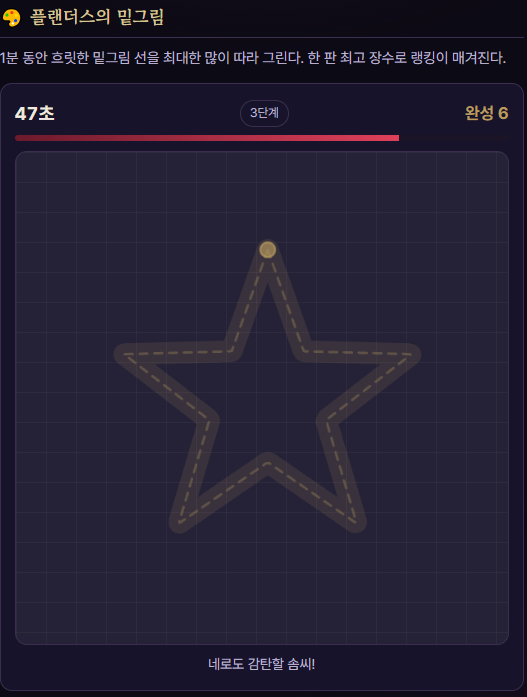
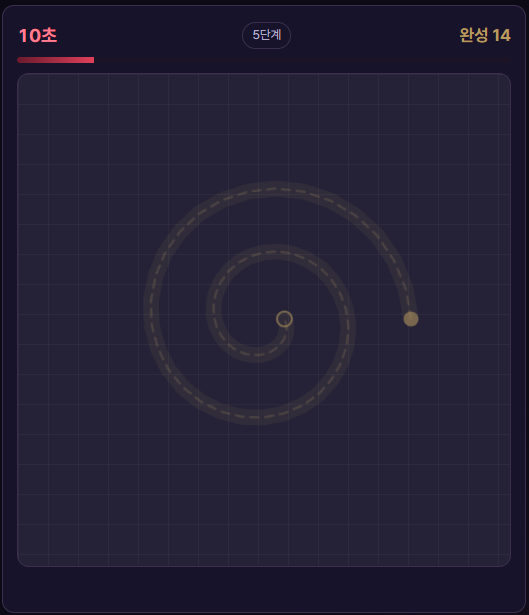
아 맞다 브금 삽입 버전 업

diff --git a/data/act/mini/flanders.js b/data/act/mini/flanders.js
@@ -8,7 +8,8 @@
    top     랭킹에 보여 줄 사람 수
    pass    한 장 완성 기준. cover: 안내선을 덮은 비율 · acc: 그린 선이 안내선 위에 있는 비율
    levels  난이도 단계. at: 몇 번째 장부터(1부터 센 장 번호) · tol: 허용 오차(px, 판 크기 600 기준) · alpha: 안내선 진하기 · pick: 이 단계에서 나올 선
-           예: at 0→1장부터, at 3→3장째부터, at 6·9·10. 단계는 장을 새로 낼 때만 바뀐다(그리던 장을 도중에 바꾸지 않음).
+           예: at 0→1장부터, at 3→3장째부터, at 6·9. 단계는 장을 새로 낼 때만 바뀐다(그리던 장을 도중에 바꾸지 않음).
+           예전 5단계(at:10)는 4단계(at:9) pick 에 합쳤다.
    pick 에 쓰는 이름
      · 그때그때 무작위로 만드는 선: line(직선) bend(꺾인 선) curve(곡선) zig(지그재그) wave(물결)
      · 미리 그려 둔 밑그림: 아래 shapes 의 이름
@@ -25,9 +26,8 @@ const MG_FLANDERS={
  levels:[
   {at:0, tol:30,alpha:.42,pick:["line"]},
   {at:3, tol:26,alpha:.36,pick:["bend","house"]},
-  {at:6, tol:22,alpha:.30,pick:["curve","spire","star"]},
-  {at:9, tol:19,alpha:.24,pick:["zig","heart","moon"]},
-  {at:10,tol:16,alpha:.18,pick:["wave","spiral","heart","star"]}
+  {at:6, tol:22,alpha:.30,pick:["curve","spire","star","tree"]},
+  {at:9, tol:17,alpha:.20,pick:["zig","wave","heart","moon","spiral","star","bird","flower","butterfly","clover","fish","windmill","bow","knot"]}
  ],
  shapes:{
   heart: [[0.5,0.331],[0.505,0.304],[0.536,0.237],[0.608,0.169],[0.712,0.139],[0.825,0.166],[0.912,0.247],[0.944,0.359],[0.912,0.477],[0.825,0.588],[0.712,0.689],[0.608,0.782],[0.536,0.863],[0.505,0.921],[0.5,0.942],[0.495,0.921],[0.464,0.863],[0.392,0.782],[0.288,0.689],[0.175,0.588],[0.088,0.477],[0.056,0.359],[0.088,0.247],[0.175,0.166],[0.288,0.139],[0.392,0.169],[0.464,0.237],[0.495,0.304],[0.5,0.331]],
@@ -35,6 +35,24 @@ const MG_FLANDERS={
   house: [[0.2,0.85],[0.2,0.45],[0.5,0.18],[0.8,0.45],[0.8,0.85],[0.2,0.85]],
   spire: [[0.25,0.9],[0.25,0.55],[0.4,0.45],[0.5,0.12],[0.6,0.45],[0.75,0.55],[0.75,0.9]],
   spiral: [[0.55,0.5],[0.554,0.512],[0.556,0.525],[0.554,0.54],[0.548,0.554],[0.538,0.568],[0.524,0.58],[0.507,0.589],[0.487,0.594],[0.466,0.594],[0.444,0.59],[0.422,0.58],[0.402,0.565],[0.386,0.545],[0.373,0.52],[0.366,0.493],[0.365,0.463],[0.371,0.433],[0.384,0.404],[0.403,0.377],[0.429,0.354],[0.46,0.337],[0.495,0.327],[0.533,0.324],[0.572,0.33],[0.609,0.345],[0.644,0.367],[0.673,0.398],[0.696,0.435],[0.711,0.477],[0.717,0.523],[0.712,0.57],[0.697,0.616],[0.672,0.659],[0.638,0.697],[0.596,0.726],[0.547,0.747],[0.493,0.757],[0.438,0.755],[0.383,0.741],[0.331,0.715],[0.285,0.678],[0.247,0.631],[0.22,0.576],[0.204,0.516],[0.202,0.452],[0.214,0.388],[0.239,0.327],[0.278,0.272],[0.328,0.225],[0.388,0.19],[0.456,0.168],[0.527,0.16],[0.6,0.168],[0.671,0.192],[0.736,0.231],[0.792,0.283],[0.836,0.348],[0.866,0.421],[0.88,0.5]],
-  moon: [[0.5,0.85],[0.439,0.845],[0.38,0.829],[0.325,0.803],[0.275,0.768],[0.232,0.725],[0.197,0.675],[0.171,0.62],[0.155,0.561],[0.15,0.5],[0.155,0.439],[0.171,0.38],[0.197,0.325],[0.232,0.275],[0.275,0.232],[0.325,0.197],[0.38,0.171],[0.439,0.155],[0.5,0.15],[0.434,0.184],[0.376,0.231],[0.328,0.289],[0.292,0.354],[0.27,0.426],[0.263,0.5],[0.27,0.574],[0.292,0.646],[0.328,0.711],[0.376,0.769],[0.434,0.816],[0.5,0.85]]
+  moon: [[0.5,0.85],[0.439,0.845],[0.38,0.829],[0.325,0.803],[0.275,0.768],[0.232,0.725],[0.197,0.675],[0.171,0.62],[0.155,0.561],[0.15,0.5],[0.155,0.439],[0.171,0.38],[0.197,0.325],[0.232,0.275],[0.275,0.232],[0.325,0.197],[0.38,0.171],[0.439,0.155],[0.5,0.15],[0.434,0.184],[0.376,0.231],[0.328,0.289],[0.292,0.354],[0.27,0.426],[0.263,0.5],[0.27,0.574],[0.292,0.646],[0.328,0.711],[0.376,0.769],[0.434,0.816],[0.5,0.85]],
+  /* 나무: 줄기 → 수관 한 획 */
+  tree: [[0.48,0.92],[0.48,0.58],[0.42,0.58],[0.35,0.5],[0.3,0.4],[0.28,0.3],[0.32,0.2],[0.4,0.14],[0.5,0.12],[0.6,0.14],[0.68,0.2],[0.72,0.3],[0.7,0.4],[0.65,0.5],[0.58,0.58],[0.52,0.58],[0.52,0.92]],
+  /* 새: 몸·날개·부리 실루엣 */
+  bird: [[0.18,0.55],[0.28,0.48],[0.38,0.42],[0.48,0.4],[0.55,0.32],[0.62,0.22],[0.68,0.28],[0.58,0.38],[0.7,0.36],[0.82,0.34],[0.9,0.42],[0.82,0.48],[0.7,0.5],[0.58,0.52],[0.62,0.62],[0.55,0.7],[0.48,0.62],[0.42,0.55],[0.32,0.58],[0.22,0.62],[0.18,0.55]],
+  /* 꽃: 꽃잎 다섯 + 중심을 한 획으로 */
+  flower: [[0.5,0.5],[0.5,0.28],[0.56,0.22],[0.62,0.28],[0.56,0.36],[0.5,0.5],[0.68,0.38],[0.78,0.42],[0.74,0.52],[0.64,0.5],[0.5,0.5],[0.62,0.66],[0.58,0.76],[0.48,0.74],[0.48,0.62],[0.5,0.5],[0.38,0.66],[0.28,0.7],[0.26,0.58],[0.36,0.54],[0.5,0.5],[0.32,0.38],[0.22,0.34],[0.26,0.24],[0.38,0.3],[0.5,0.5],[0.5,0.42],[0.54,0.46],[0.5,0.5]],
+  /* 나비: 몸통·날개 */
+  butterfly: [[0.5,0.18],[0.5,0.82],[0.48,0.7],[0.35,0.55],[0.22,0.42],[0.18,0.28],[0.28,0.22],[0.4,0.32],[0.48,0.45],[0.5,0.5],[0.52,0.45],[0.6,0.32],[0.72,0.22],[0.82,0.28],[0.78,0.42],[0.65,0.55],[0.52,0.7],[0.5,0.82],[0.5,0.55],[0.42,0.62],[0.32,0.72],[0.28,0.82],[0.38,0.78],[0.48,0.68],[0.5,0.55],[0.58,0.68],[0.68,0.78],[0.72,0.82],[0.62,0.72],[0.52,0.62],[0.5,0.55]],
+  /* 클로버 잎 세 장 */
+  clover: [[0.5,0.88],[0.5,0.62],[0.42,0.55],[0.32,0.48],[0.28,0.38],[0.34,0.28],[0.44,0.28],[0.5,0.38],[0.5,0.48],[0.5,0.38],[0.56,0.28],[0.66,0.28],[0.72,0.38],[0.68,0.48],[0.58,0.55],[0.5,0.62],[0.42,0.48],[0.32,0.42],[0.28,0.32],[0.34,0.24],[0.44,0.26],[0.5,0.36],[0.56,0.26],[0.66,0.24],[0.72,0.32],[0.68,0.42],[0.58,0.48],[0.5,0.62],[0.5,0.88]],
+  /* 물고기 */
+  fish: [[0.12,0.5],[0.22,0.38],[0.35,0.3],[0.5,0.28],[0.65,0.32],[0.78,0.4],[0.88,0.5],[0.78,0.6],[0.65,0.68],[0.5,0.72],[0.35,0.7],[0.22,0.62],[0.12,0.5],[0.22,0.5],[0.12,0.38],[0.12,0.62],[0.22,0.5],[0.78,0.42],[0.92,0.32],[0.92,0.68],[0.78,0.58]],
+  /* 풍차(플랜더스): 탑 + 날개 십자 */
+  windmill: [[0.42,0.92],[0.42,0.55],[0.38,0.48],[0.5,0.22],[0.62,0.48],[0.58,0.55],[0.58,0.92],[0.42,0.92],[0.5,0.5],[0.22,0.28],[0.28,0.22],[0.5,0.5],[0.78,0.28],[0.72,0.22],[0.5,0.5],[0.22,0.72],[0.28,0.78],[0.5,0.5],[0.78,0.72],[0.72,0.78],[0.5,0.5]],
+  /* 리본 활 */
+  bow: [[0.5,0.5],[0.35,0.35],[0.22,0.28],[0.18,0.4],[0.28,0.52],[0.4,0.48],[0.5,0.5],[0.65,0.35],[0.78,0.28],[0.82,0.4],[0.72,0.52],[0.6,0.48],[0.5,0.5],[0.35,0.65],[0.22,0.72],[0.18,0.6],[0.28,0.48],[0.5,0.5],[0.65,0.65],[0.78,0.72],[0.82,0.6],[0.72,0.48],[0.5,0.5],[0.5,0.58],[0.5,0.78]],
+  /* 매듭·8자(복잡) */
+  knot: [[0.5,0.2],[0.62,0.28],[0.7,0.4],[0.68,0.55],[0.55,0.62],[0.45,0.55],[0.42,0.42],[0.5,0.35],[0.6,0.4],[0.62,0.52],[0.55,0.62],[0.45,0.7],[0.35,0.78],[0.28,0.7],[0.32,0.55],[0.45,0.48],[0.55,0.52],[0.58,0.65],[0.5,0.75],[0.38,0.82],[0.3,0.75],[0.35,0.62],[0.5,0.55],[0.65,0.62],[0.72,0.75],[0.65,0.85],[0.5,0.88],[0.35,0.82],[0.28,0.7],[0.32,0.55],[0.45,0.42],[0.55,0.35],[0.5,0.2]]
  }
 };

diff --git a/js/act/mini/demo.js b/js/act/mini/demo.js
@@ -6,7 +6,7 @@
 
    ── 규칙 ───────────────────────────────────────────────
    · 1분 동안 흐릿한 안내선(밑그림)을 따라 그린다. 잘 따라 그리면 1장 완성, 다음 선이 나온다.
-   · 완성 장수가 늘수록 어려워진다(3·6·9·10번째 장부터 단계 상승). 선이 복잡해지고 안내선이 옅어지며 허용 오차가 줄어든다.
+   · 완성 장수가 늘수록 어려워진다(3·6·9번째 장부터 단계 상승). 선이 복잡해지고 안내선이 옅어지며 허용 오차가 줄어든다.
    · 장수·난이도 단계·완성 기준·미리 그려 둔 밑그림(shapes)은 data/act/mini/flanders.js 의 MG_FLANDERS.
      그 파일이 없으면 아래 MG_DEF(무작위 선만)로 돈다. 단계는 next() 때만 바뀌고, 그리던 장을 도중에 바꾸지 않는다.
    · 서버 통신(기록용)은 시작·종료·랭킹 읽기뿐이다. rank·total_amount 는 클라가 직접 쓰지 않는다.
@@ -22,7 +22,7 @@ var SP_MINI = window.SP_MINI || (window.SP_MINI = {});
  const MG_W = 600;                  // 캔버스 내부 좌표 크기(정사각형). 데이터의 tol 도 이 크기 기준.
  /* 데이터 파일이 없을 때 쓰는 기본값(무작위 선만). 실제 값은 data/act/mini/flanders.js */
  const MG_DEF = { sec: 60, path: "event_minigame/flanders", top: 10, pass: { cover: .82, acc: .72 },
-  levels: [{ at: 0, tol: 30, alpha: .42, pick: ["line"] }, { at: 3, tol: 26, alpha: .36, pick: ["bend"] }, { at: 6, tol: 22, alpha: .30, pick: ["curve"] }, { at: 9, tol: 19, alpha: .24, pick: ["zig"] }, { at: 10, tol: 16, alpha: .18, pick: ["wave"] }],
+  levels: [{ at: 0, tol: 30, alpha: .42, pick: ["line"] }, { at: 3, tol: 26, alpha: .36, pick: ["bend"] }, { at: 6, tol: 22, alpha: .30, pick: ["curve"] }, { at: 9, tol: 17, alpha: .20, pick: ["zig", "wave"] }],
   shapes: {} };
  const MG = (() => { const d = typeof MG_FLANDERS !== "undefined" && MG_FLANDERS && typeof MG_FLANDERS === "object" ? MG_FLANDERS : {};
   const lv = Array.isArray(d.levels) && d.levels.length ? d.levels.filter(x => x && Array.isArray(x.pick) && x.pick.length).sort((a, b) => (a.at || 0) - (b.at || 0)) : MG_DEF.levels;
@@ -238,9 +238,12 @@ var SP_MINI = window.SP_MINI || (window.SP_MINI = {});
     cnt.textContent = "완성 " + st.count; 
     say.textContent = ["빠른데?", "힘내보자.", "열정이 대단하잖아.", "나도 이렇게 그림을 연습했던 적이 있었지.", "파트라슈..."][st.count % 5];
     st.flash = performance.now();
-    st.flashOk = true; next()
+    st.flashOk = true;
+    try { if (typeof sfx === "function") sfx("assets/raw/minigame_complete.mp3") } catch (e) {}
+    next()
   } else {
-    say.textContent = r.cover < PASS_COVER ? "선을 끝까지 따라가 보자. (" + Math.round(r.cover * 100) + "%)" : "조금 더 선 가까이! (" + Math.round(r.acc * 100) + "%)"; st.flash = performance.now(); st.flashOk = false; st.drawn = [] }
+    say.textContent = r.cover < PASS_COVER ? "선을 끝까지 따라가 보자. (" + Math.round(r.cover * 100) + "%)" : "조금 더 선 가까이! (" + Math.round(r.acc * 100) + "%)"; st.flash = performance.now(); st.flashOk = false; st.drawn = [];
+    try { if (typeof sfx === "function") sfx("assets/raw/mg_fail.mp3") } catch (e) {} }
   };
   cv.addEventListener("pointerup", up); cv.addEventListener("pointercancel", up);
 

diff --git a/index.html b/index.html
@@ -23,7 +23,7 @@
     </head>
 
     <body>
-        <script src="js/common/include.js?v=1.0.1.30"></script> <!-- 화면 HTML을 붙인다. 화면을 고친 배포에서는 include.js 의 APP_VER 앱 버전 과 이 주소의 버전을 같이 올린다. -->
+        <script src="js/common/include.js?v=1.0.2.0"></script> <!-- 화면 HTML을 붙인다. 화면을 고친 배포에서는 include.js 의 APP_VER 앱 버전 과 이 주소의 버전을 같이 올린다. -->
 
 
         <script>includeHtml("html/home/main.html")</script>  <!-- 홈 화면 -->
@@ -97,7 +97,7 @@
         <script src="js/shop.js?v=1.0.0.37"></script>
         <script src="data/npc/shady.js?v=1.0.0.1"></script>    <!-- 수상한 상인 대사. js/shop/merchant.js -->
         <script src="js/shop/merchant.js?v=1.0.0.12"></script>    <!-- 수상한 상인(가챠). html/shop/shop.html #shdbox -->
-        <script src="js/alarm/toast.js?v=1.0.0.1"></script>
+        <script src="js/alarm/toast.js?v=1.0.0.2"></script>
         <script src="js/alarm/inbox.js?v=1.0.0.22"></script>
         <script src="js/create.js?v=1.0.0.38"></script>    <!-- 캐릭터 제작. html/create/create.html -->
         <script src="js/create/craft.js?v=1.0.0.41"></script>    <!-- 마을 하위 제작 탭. html/create/craft.html -->

diff --git a/js/alarm/toast.js b/js/alarm/toast.js
@@ -7,4 +7,6 @@ function dingCtx(){return ding.c||null}
 function dingUnlock(){try{const A=window.AudioContext||window.webkitAudioContext;if(!A)return;if(!ding.c)ding.c=new A();if(ding.c.state==="suspended")ding.c.resume().catch(()=>{})}catch(e){}}
 function ding(){try{const a=ding.c;if(!a||a.state!=="running")return;
  const o=a.createOscillator(),g=a.createGain();o.type="sine";o.frequency.setValueAtTime(880,a.currentTime);o.frequency.setValueAtTime(1175,a.currentTime+.09);g.gain.setValueAtTime(.0001,a.currentTime);g.gain.exponentialRampToValueAtTime(.12,a.currentTime+.02);g.gain.exponentialRampToValueAtTime(.0001,a.currentTime+.35);o.connect(g);g.connect(a.destination);o.start();o.stop(a.currentTime+.36)}catch(e){}}
+/* raw mp3 등. 첫 입력 뒤(dingUnlock)에만 재생된다. 같은 src 는 한 Audio 를 재사용. */
+function sfx(src){try{if(!src)return;dingUnlock();sfx._m=sfx._m||{};let a=sfx._m[src];if(!a){a=new Audio(src);a.preload="auto";sfx._m[src]=a}a.currentTime=0;const p=a.play();if(p&&p.catch)p.catch(()=>{})}catch(e){}}
 (["pointerdown","keydown","touchstart"].forEach(ev=>document.addEventListener(ev,dingUnlock,{capture:true,passive:true})));

diff --git a/js/common/include.js b/js/common/include.js
@@ -1,6 +1,6 @@
 /* 앱 버전. 설정 화면과 화면 HTML 캐시가 이 값을 쓴다.
    화면 HTML을 고친 배포에서는 이 문자열과 index.html 의 include.js 주소 뒤 버전을 같이 올린다. */
-var APP_VER="1.0.1.42";
+var APP_VER="1.0.2.0";
 
 /* 화면 HTML을 지금 읽고 있는 자리에 붙인다.
    이 호출은 본문을 읽는 동안 끝나야 한다. 아래 게임 스크립트는 버튼과 칸을 바로 찾는다.
